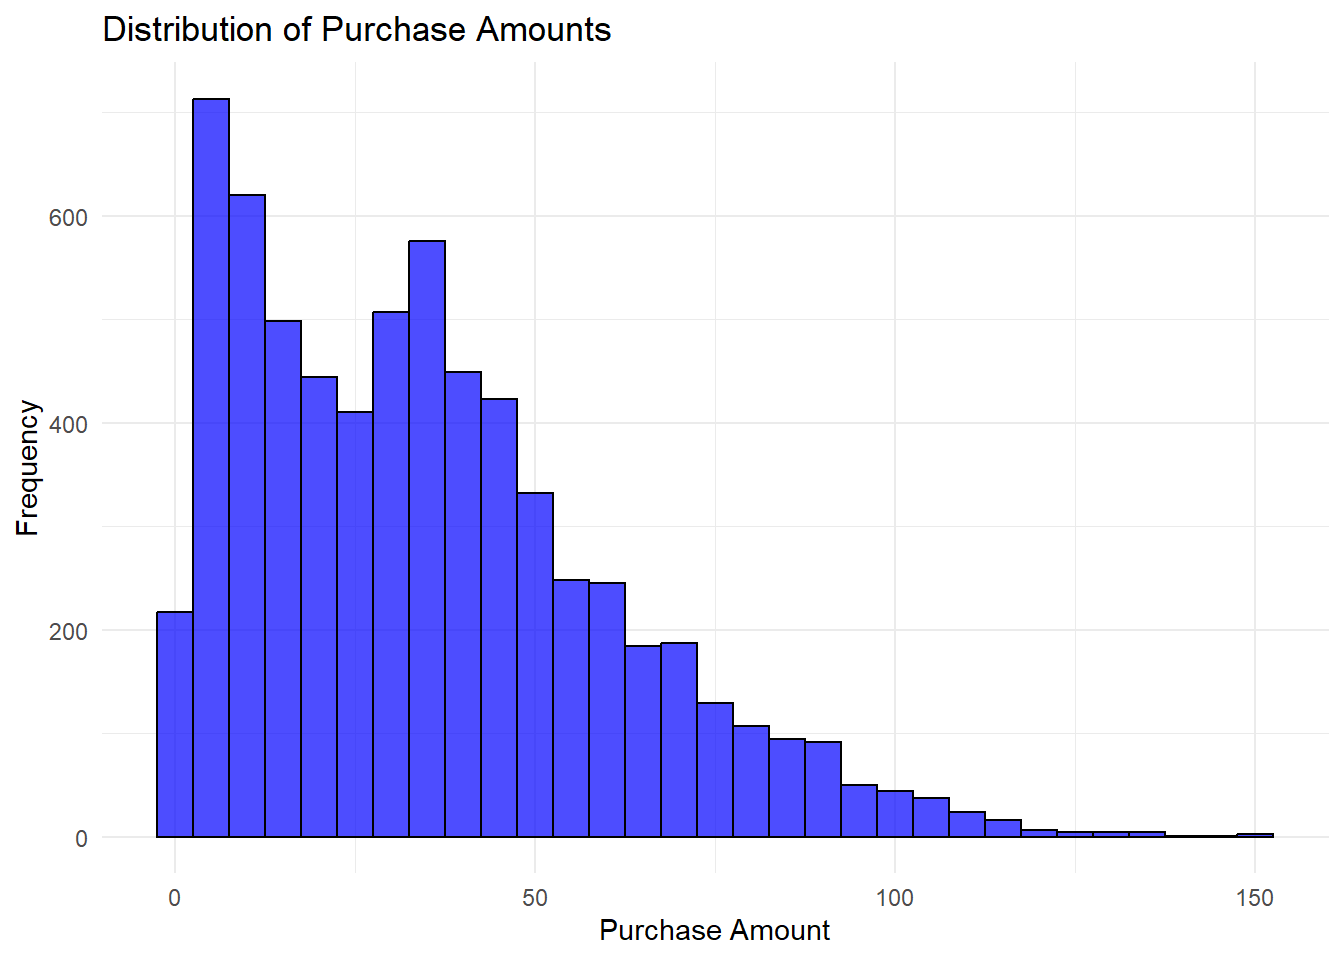
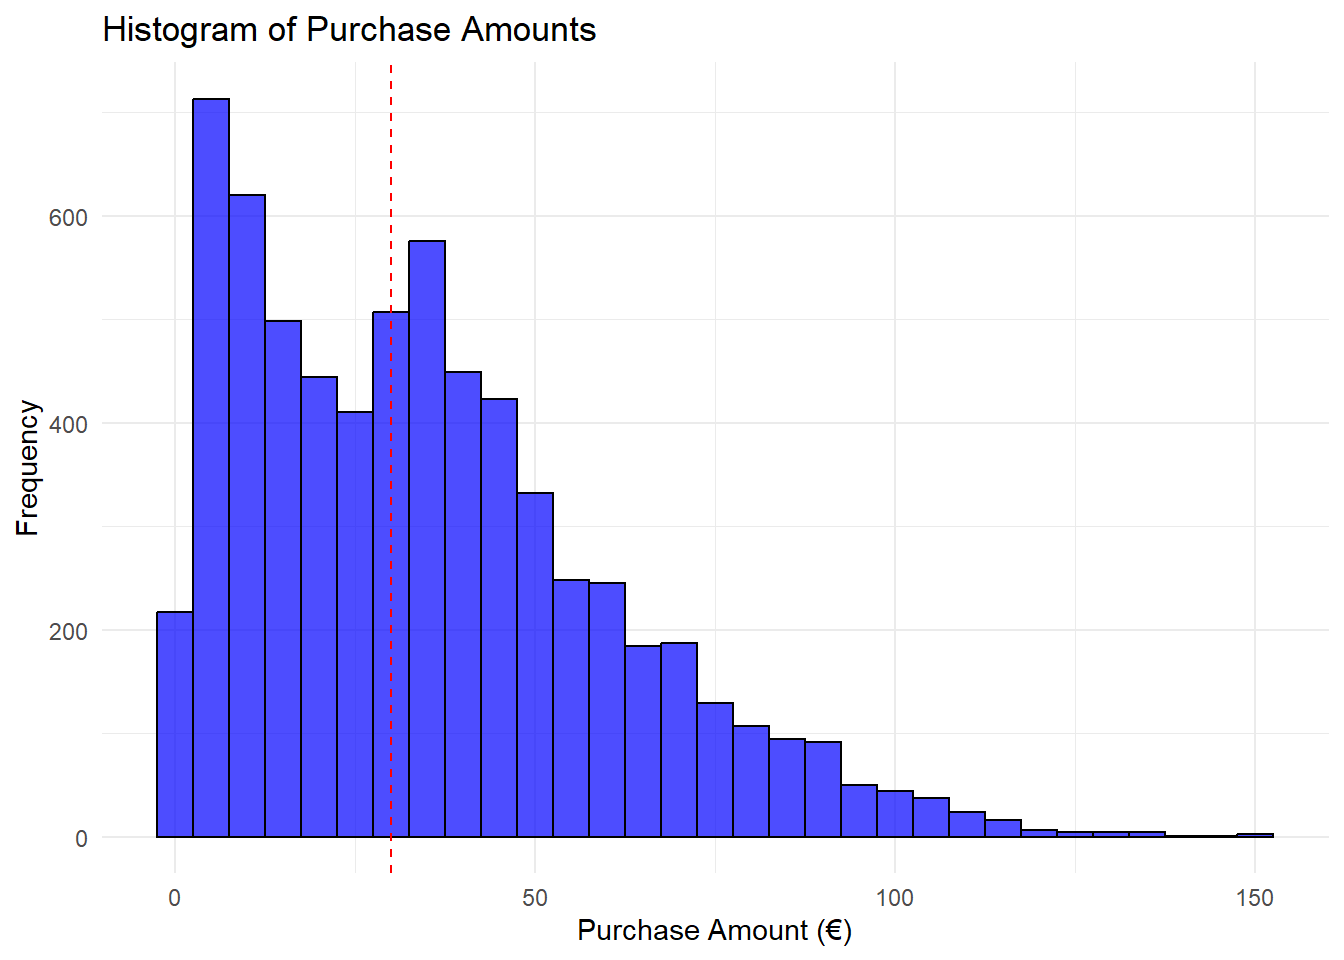
Update code - Testing
Testing the code by fixing error

Changed region(s): [[0.125, 0.0, 0.4688, 0.0625], [0.4375, 0.9375, 0.625, 1.0], [0.0625, 0.0, 0.0938, 0.0312]]

diff --git a/_site/content/01_journal/10_rdd.html b/_site/content/01_journal/10_rdd.html
@@ -434,7 +434,7 @@ pre > code.sourceCode > span > a:first-child::before { text-decoration: underlin
 #&gt; 10.000                      1    1118    0.0000</code></pre>
 </div>
 </div>
-<div class="cell" data-hash="10_rdd_cache/html/unnamed-chunk-3_3d4073392120f080656767ddf493b539">
+<div class="cell" data-hash="10_rdd_cache/html/unnamed-chunk-3_479e3bc3df7d38fcefffb30298786fb0">
 <div class="sourceCode cell-code" id="cb22"><pre class="sourceCode numberSource r number-lines code-with-copy"><code class="sourceCode r"><span id="cb22-1"><a href="#cb22-1"></a><span class="co">#2nd part</span></span>
 <span id="cb22-2"><a href="#cb22-2"></a><span class="co"># Load necessary libraries and data</span></span>
 <span id="cb22-3"><a href="#cb22-3"></a><span class="fu">library</span>(ggplot2)</span>
@@ -442,25 +442,20 @@ pre > code.sourceCode > span > a:first-child::before { text-decoration: underlin
 <span id="cb22-5"><a href="#cb22-5"></a></span>
 <span id="cb22-6"><a href="#cb22-6"></a>shipping_data <span class="ot">&lt;-</span> <span class="fu">readRDS</span>(<span class="st">"C:/Users/Anjali/Downloads/Causal_Data_Science_Data (1)/Causal_Data_Science_Data/shipping.rds"</span>)</span>
 <span id="cb22-7"><a href="#cb22-7"></a></span>
-<span id="cb22-8"><a href="#cb22-8"></a><span class="co"># Check the structure of your data</span></span>
-<span id="cb22-9"><a href="#cb22-9"></a><span class="fu">str</span>(shipping_data)</span></code><button title="Copy to Clipboard" class="code-copy-button"><i class="bi"></i></button></pre></div>
+<span id="cb22-8"><a href="#cb22-8"></a><span class="fu">summary</span>(shipping_data<span class="sc">$</span>purchase_amount)</span></code><button title="Copy to Clipboard" class="code-copy-button"><i class="bi"></i></button></pre></div>
 <div class="cell-output cell-output-stdout">
-<pre><code>#&gt; tibble [6,666 × 1] (S3: tbl_df/tbl/data.frame)
-#&gt;  $ purchase_amount: num [1:6666] 13.11 37.12 11.26 9.45 53.24 ...</code></pre>
+<pre><code>#&gt;    Min. 1st Qu.  Median    Mean 3rd Qu.    Max. 
+#&gt;    1.00   13.75   31.94   35.06   49.59  150.00</code></pre>
 </div>
-<div class="sourceCode cell-code" id="cb24"><pre class="sourceCode numberSource r number-lines code-with-copy"><code class="sourceCode r"><span id="cb24-1"><a href="#cb24-1"></a><span class="co"># Check the structure of your data</span></span>
-<span id="cb24-2"><a href="#cb24-2"></a><span class="fu">str</span>(shipping_data)</span></code><button title="Copy to Clipboard" class="code-copy-button"><i class="bi"></i></button></pre></div>
-<div class="cell-output cell-output-stdout">
-<pre><code>#&gt; tibble [6,666 × 1] (S3: tbl_df/tbl/data.frame)
-#&gt;  $ purchase_amount: num [1:6666] 13.11 37.12 11.26 9.45 53.24 ...</code></pre>
-</div>
-<div class="sourceCode cell-code" id="cb26"><pre class="sourceCode numberSource r number-lines code-with-copy"><code class="sourceCode r"><span id="cb26-1"><a href="#cb26-1"></a><span class="co"># Create a histogram of purchase amounts</span></span>
-<span id="cb26-2"><a href="#cb26-2"></a><span class="fu">ggplot</span>(shipping_data, <span class="fu">aes</span>(<span class="at">x =</span> purchase_amount)) <span class="sc">+</span></span>
-<span id="cb26-3"><a href="#cb26-3"></a>  <span class="fu">geom_histogram</span>(<span class="at">binwidth =</span> <span class="dv">5</span>, <span class="at">fill =</span> <span class="st">"blue"</span>, <span class="at">color =</span> <span class="st">"black"</span>, <span class="at">alpha =</span> <span class="fl">0.7</span>) <span class="sc">+</span></span>
-<span id="cb26-4"><a href="#cb26-4"></a>  <span class="fu">labs</span>(<span class="at">title =</span> <span class="st">"Distribution of Purchase Amounts"</span>,</span>
-<span id="cb26-5"><a href="#cb26-5"></a>       <span class="at">x =</span> <span class="st">"Purchase Amount"</span>,</span>
-<span id="cb26-6"><a href="#cb26-6"></a>       <span class="at">y =</span> <span class="st">"Frequency"</span>) <span class="sc">+</span></span>
-<span id="cb26-7"><a href="#cb26-7"></a>  <span class="fu">theme_minimal</span>()</span></code><button title="Copy to Clipboard" class="code-copy-button"><i class="bi"></i></button></pre></div>
+<div class="sourceCode cell-code" id="cb24"><pre class="sourceCode numberSource r number-lines code-with-copy"><code class="sourceCode r"><span id="cb24-1"><a href="#cb24-1"></a><span class="fu">library</span>(ggplot2)</span>
+<span id="cb24-2"><a href="#cb24-2"></a></span>
+<span id="cb24-3"><a href="#cb24-3"></a><span class="fu">ggplot</span>(shipping_data, <span class="fu">aes</span>(<span class="at">x =</span> purchase_amount)) <span class="sc">+</span></span>
+<span id="cb24-4"><a href="#cb24-4"></a>  <span class="fu">geom_histogram</span>(<span class="at">binwidth =</span> <span class="dv">5</span>, <span class="at">fill =</span> <span class="st">"blue"</span>, <span class="at">color =</span> <span class="st">"black"</span>, <span class="at">alpha =</span> <span class="fl">0.7</span>) <span class="sc">+</span></span>
+<span id="cb24-5"><a href="#cb24-5"></a>  <span class="fu">geom_vline</span>(<span class="at">xintercept =</span> <span class="dv">30</span>, <span class="at">linetype =</span> <span class="st">"dashed"</span>, <span class="at">color =</span> <span class="st">"red"</span>) <span class="sc">+</span></span>
+<span id="cb24-6"><a href="#cb24-6"></a>  <span class="fu">labs</span>(<span class="at">title =</span> <span class="st">"Histogram of Purchase Amounts"</span>,</span>
+<span id="cb24-7"><a href="#cb24-7"></a>       <span class="at">x =</span> <span class="st">"Purchase Amount (€)"</span>,</span>
+<span id="cb24-8"><a href="#cb24-8"></a>       <span class="at">y =</span> <span class="st">"Frequency"</span>) <span class="sc">+</span></span>
+<span id="cb24-9"><a href="#cb24-9"></a>  <span class="fu">theme_minimal</span>()</span></code><button title="Copy to Clipboard" class="code-copy-button"><i class="bi"></i></button></pre></div>
 <div class="cell-output-display">
 <div class="quarto-figure quarto-figure-center">
 <figure class="figure">
@@ -469,7 +464,6 @@ pre > code.sourceCode > span > a:first-child::before { text-decoration: underlin
 </div>
 </div>
 </div>
-<p>The histogram above illustrates the distribution of purchase amounts from the dataset corresponding to a past campaign where free shipping was offered for purchases with a total amount exceeding 30€. To determine whether purchase_amount is a suitable running variable with a natural cut-off at 30€, we can observe the shape of the distribution. The histogram shows a noticeable change in frequency around the 30€ mark, suggesting a potential threshold effect. Values to the left of 30€ represent purchases that did not qualify for free shipping, while those to the right indicate purchases that met the criteria for free shipping. This natural separation aligns with the campaign’s conditions, making purchase_amount a plausible running variable for assessing the impact of the free shipping offer. In conclusion, based on the visual examination of the histogram, purchase_amount appears to be a promising running variable for studying the impact of the free shipping campaign, with a clear threshold effect at the 30€ mark.</p>
 
 
 
@@ -823,7 +817,7 @@ window.document.addEventListener("DOMContentLoaded", function (event) {
 });
 </script>
 </div> <!-- /content -->
-<script>var lightboxQuarto = GLightbox({"selector":".lightbox","closeEffect":"zoom","loop":true,"descPosition":"bottom","openEffect":"zoom"});</script>
+<script>var lightboxQuarto = GLightbox({"selector":".lightbox","loop":true,"closeEffect":"zoom","openEffect":"zoom","descPosition":"bottom"});</script>
 
 
 
